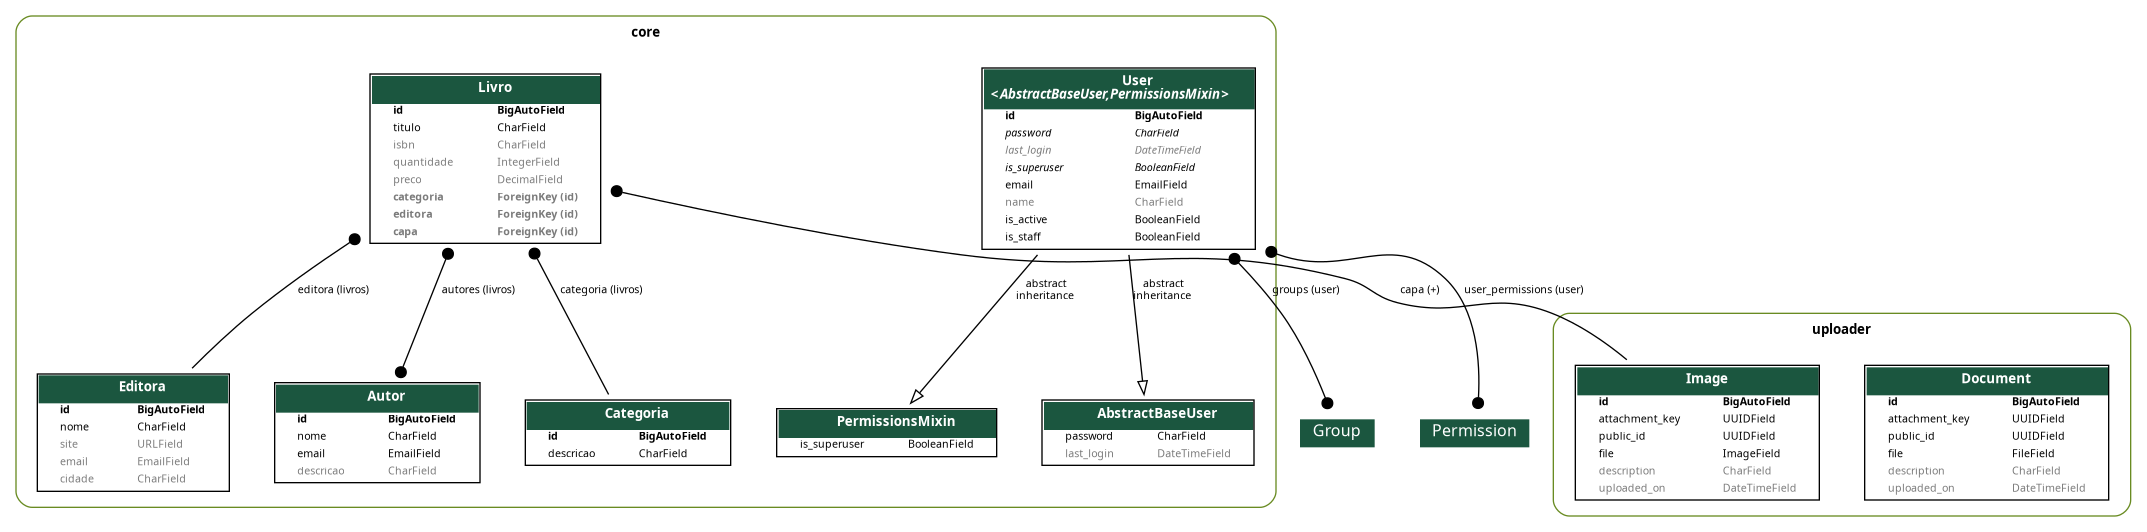
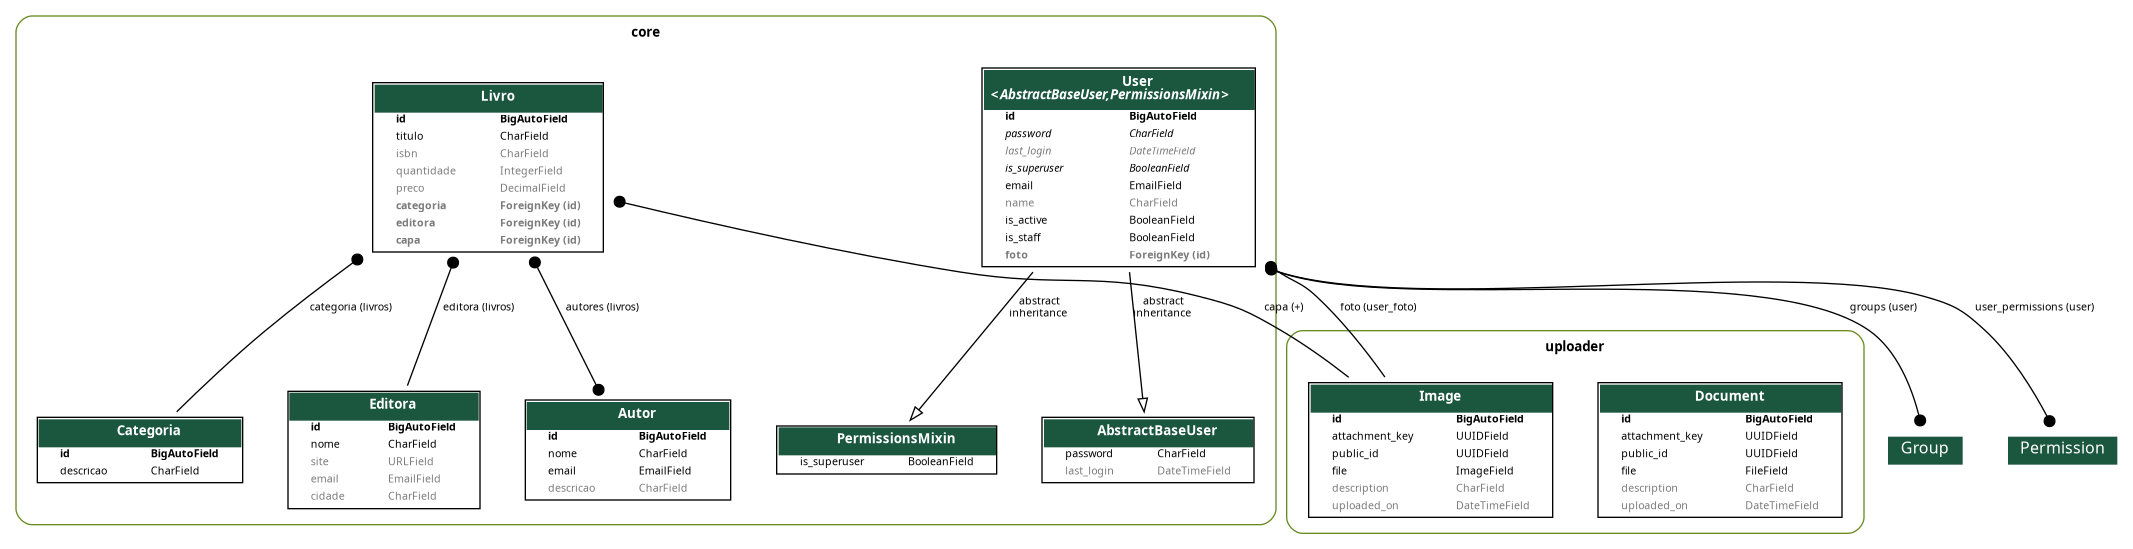
Feat: adicionand foto de usuario

diff --git a/core/models/user.py b/core/models/user.py
@@ -1,7 +1,3 @@
-"""
-Database models.
-"""
-
 from django.contrib.auth.models import (
     AbstractBaseUser,
     BaseUserManager,
@@ -9,6 +5,8 @@ from django.contrib.auth.models import (
 )
 from django.db import models
 from django.utils.translation import gettext_lazy as _
+
+from uploader.models import Image
 
 
 class UserManager(BaseUserManager):
@@ -49,6 +47,15 @@ class User(AbstractBaseUser, PermissionsMixin):
         default=False,
         verbose_name=_('Usuário é da equipe'),
         help_text=_('Indica que este usuário pode acessar o Admin.'),
+    )
+
+    foto = models.ForeignKey(
+        Image,
+        related_name='user_foto',
+        on_delete=models.SET_NULL,
+        null=True,
+        blank=True,
+        default=None,
     )
 
     objects = UserManager()

diff --git a/core/migrations/0019_user_foto.py b/core/migrations/0019_user_foto.py
@@ -1,0 +1,20 @@
+# Generated by Django 5.2.13 on 2026-05-12 17:20
+
+import django.db.models.deletion
+from django.db import migrations, models
+
+
+class Migration(migrations.Migration):
+
+    dependencies = [
+        ('core', '0018_alter_livro_preco'),
+        ('uploader', '0001_initial'),
+    ]
+
+    operations = [
+        migrations.AddField(
+            model_name='user',
+            name='foto',
+            field=models.ForeignKey(blank=True, default=None, null=True, on_delete=django.db.models.deletion.SET_NULL, related_name='user_foto', to='uploader.image'),
+        ),
+    ]

diff --git a/core/admin.py b/core/admin.py
@@ -47,9 +47,10 @@ class UserAdmin(BaseUserAdmin):
 
     ordering = ['id']
     list_display = ['email', 'name']
+    search_fields = ['email', 'name', 'groups__name']
     fieldsets = (
         (None, {'fields': ('email', 'password')}),
-        (_('Personal Info'), {'fields': ('name',)}),
+        (_('Personal Info'), {'fields': ('name', 'foto')}),
         (
             _('Permissions'),
             {
